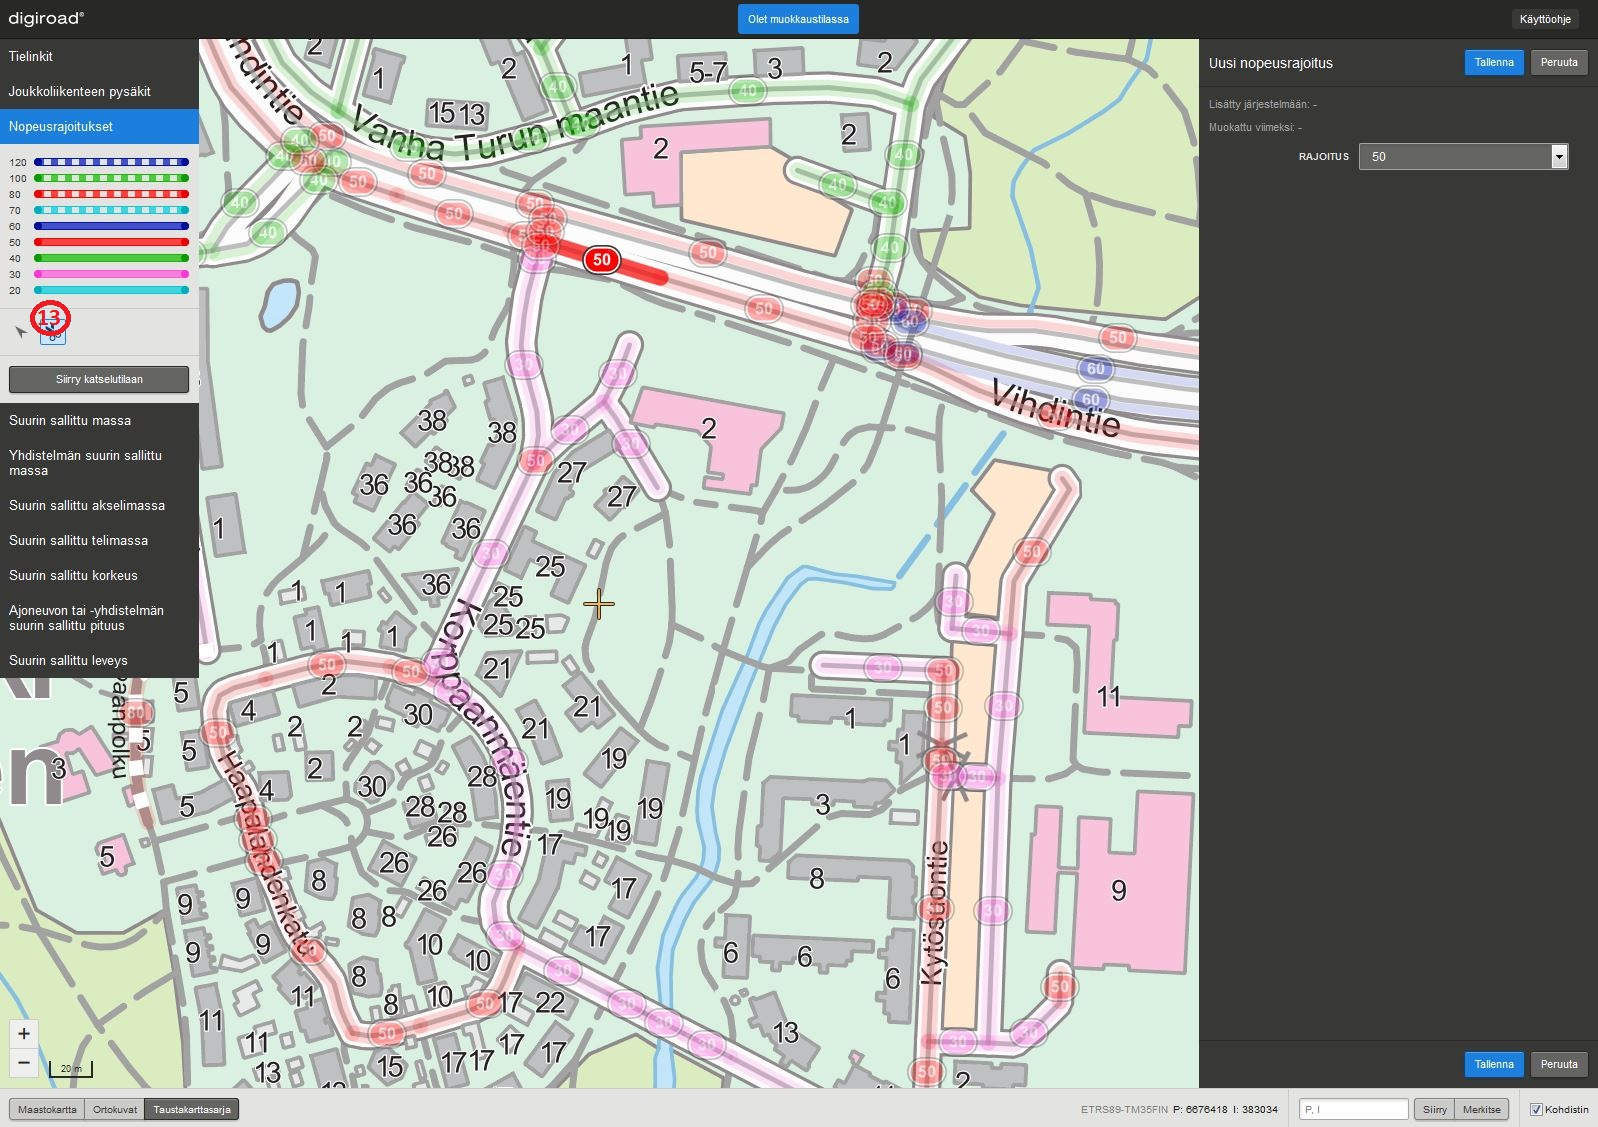
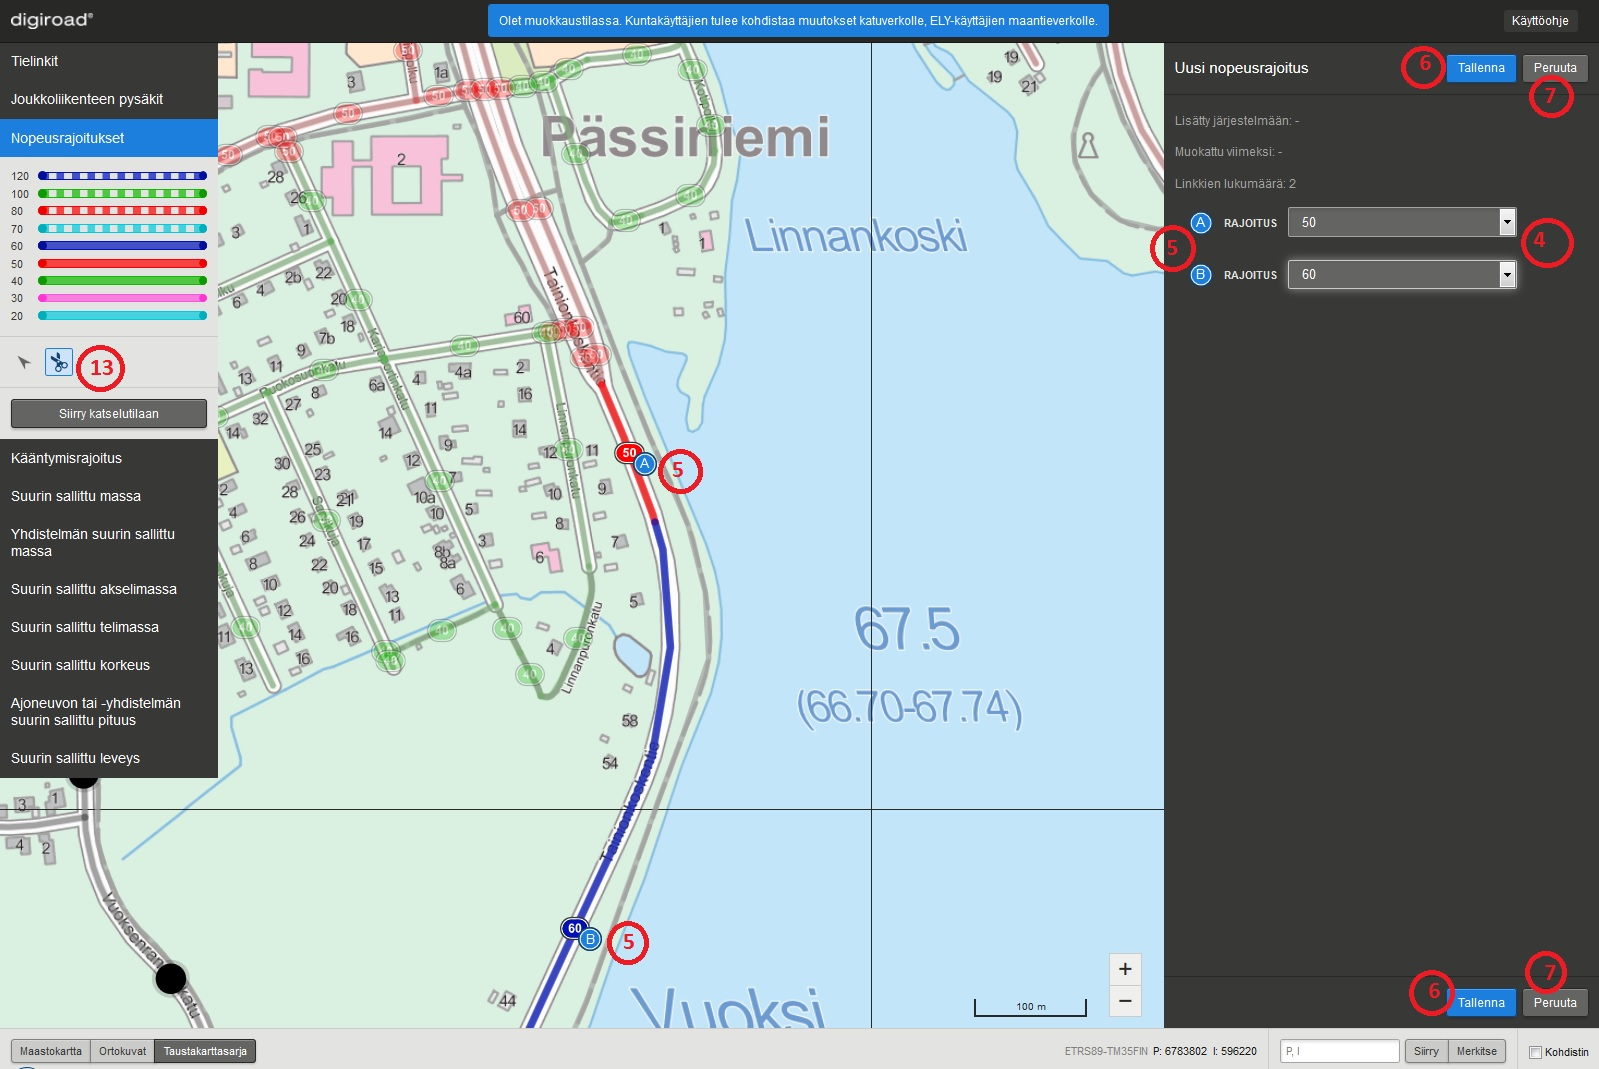
update manual

diff --git a/UI/manual/index.md b/UI/manual/index.md
@@ -399,25 +399,38 @@ _Nopeusrajoituksen tietojen katselu, kun valittuna on nopeusrajoitusketju (klika
 
 _Nopeusrajoituksen tietojen katselu, kun valittuna on yksitt&auml;inen nopeusrajoitus (tuplaklikkaus)._
 
-Nopeusrajoitukset on visualisoitu eri tavoin riippuen vaikutussuunnasta. Nopeusrajoituksen vaikutussuunta voi olla molempiin suuntiin tai vain toiseen suuntaan. Jos vaikutussuunta on molempiin suuntiin, nopeusrajoitus on visualisoitu yhdell&auml; paksulla viivalla (23). Yksisuuntainen vaikutus on visualisoitu ohuemmalla viivalla vaikutussuunnan mukaan tielinjan reunaan (24).
+###Nopeusrajoitusten visualisointi###
+
+Nopeusrajoitukset on visualisoitu eri tavoin riippuen vaikutussuunnasta. Nopeusrajoituksen vaikutussuunta voi olla molempiin suuntiin tai vain toiseen suuntaan. Jos vaikutussuunta on molempiin suuntiin, nopeusrajoitus on visualisoitu yhdell&auml; paksulla viivalla (1). Yksisuuntainen vaikutus on visualisoitu ohuemmalla viivalla vaikutussuunnan mukaan tielinjan reunaan (2).
+
+Digiroad-yll&auml;pitosovellus yhdist&auml;&auml; nopeusrajoitukset molempiin suuntiin voimassa olevaksi, jos tielinkill&auml; on vain yksinopeusrajoitus. K&auml;yt&auml;nn&ouml;ss&auml; siis kaikki tapaukset, joissa nopeusrajoituksen arvo molempiin suuntiin on sama, eik&auml; arvo vaihdu kesken tielinkin, visualisoidaan molempiin suuntiin voimassa olevana. Erityisesti risteysalueella nopeusrajoitukset voivat muuttua kesken tielinkin (2) tai rajoituksen arvo eri suuntiin on eri (2, 3), jolloin ne visualisoituvat yll&auml;pitosovelluksessa ohuemmilla viivoilla tiegeometrian viereen.
+
+Nopeusrajoituksen muokkauksessa on mahdollisuus jakaa molempiin suuntiin voimassa oleva nopeusrajoitus yhteen suuntaan voimassa olevaksi.
 
 ![Nopeusrajoitusten visualisointi](k27.JPG)
 
 _Nopeusrajoitusten visualisointi._
 
-##Nopeusrajoituksen ominaisuustietojen muokkaus##
+##Nopeusrajoituksien muokkaus##
 
-Nopeusrajoituksen tietoja muokataan muokkaustilassa muokkausty&ouml;kalulla (12). Muokattava nopeusrajoitus (4) valitaan klikkaamalla sen geometriaa. Yksitt&auml;isen nopeusrajoituksen voi valita klikkaamalla kartalta sen geometriaa. 
+Muokkaustilassa nopeusrajoituksille voi antaa uusia arvoja, niit&auml; voi katkaista sek&auml; muuttaa yksisuuntaisiksi. Nopeusrajoituksien arvoja voi muokata kolmella tavalla:
+1. Koko nopeusrajoitusketjulle.
+1. Yksitt&auml;isen linkin mittaiselle osuudelle.
+1. Monivalinnan avulla kokonaiselle alueelle.
 
-Kerran klikkaamalla tulee valituksi koko nopeusrajoitusketju, eli kaikki nopeusrajoitukset, joilla on sama nopeusrajoituksen arvo ja tiennumero (maantiell&auml;) tai tien nimi (katuverkko ja yksityistie). Jos k&auml;ytt&auml;j&auml; haluaa valita vain yhden linkin mittaisen p&auml;tk&auml;n tarkasteluun, sen voi tehd&auml; tuplaklikkamalla nopeusrajoitusta. 
+###Nopeusrajoituksen arvon muokkaus###
+
+Muokattava nopeusrajoitus valitaan klikkaamalla sen geometriaa (4). Kerran klikkaamalla tulee valituksi koko nopeusrajoitusketju, eli kaikki nopeusrajoitukset, joilla on sama nopeusrajoituksen arvo ja tiennumero (maantiell&auml;) tai tien nimi (katuverkko ja yksityistie). 
+
+Jos k&auml;ytt&auml;j&auml; haluaa valita vain yhden linkin mittaisen p&auml;tk&auml;n tarkasteluun, sen voi tehd&auml; tuplaklikkamalla nopeusrajoitusta.
 
 Huom! Nopeusrajoituksien ketjuvalinta ei toimi yksisuuntaisille nopeusrajoituksille.
 
-Tietoja muokataan ominaisuustieton&auml;kym&auml;ss&auml; valitsemalla nopeusrajoitukselle uusi arvo alasvetovalikosta (6). Muutokset tallennetaan painamalla Tallenna-painiketta oikeasta alakulmasta (8). Ennen Tallenna-painikkeen painamista muutokset voi perua painamalla Peruuta-painiketta (9). Tallenna- ja peruuta –painikkeet eiv&auml;t ole aktiivisina, jos muutoksia ei ole tehty. Jos muutoksia on tehty eik&auml; niit&auml; ole peruttu tai tallennettu ja siirryt&auml;&auml;n muokkaamaan toista kohdetta tai pois auki olevan tietolajin muokkaustilasta, sovellus antaa muutos-dialogin, joka kertoo, ett&auml; muutoksia on tehty ja ne tulee tallentaa tai peruuttaa ennen kuin voi jatkaa.
+Tietoja muokataan ominaisuustieton&auml;kym&auml;ss&auml; valitsemalla nopeusrajoitukselle uusi arvo alasvetovalikosta (5). Muutokset tallennetaan painamalla Tallenna-painiketta. Ennen Tallenna-painikkeen painamista muutokset voi perua painamalla Peruuta-painiketta. Tallenna- ja peruuta –painikkeet eiv&auml;t ole aktiivisina, jos muutoksia ei ole tehty. Jos muutoksia on tehty eik&auml; niit&auml; ole peruttu tai tallennettu ja siirryt&auml;&auml;n muokkaamaan toista kohdetta tai pois auki olevan tietolajin muokkaustilasta, sovellus antaa muutos-dialogin, joka kertoo, ett&auml; muutoksia on tehty ja ne tulee tallentaa tai peruuttaa ennen kuin voi jatkaa.
 
 ![Nopeusrajoituksen muokkaus.](k26.png)
 
-_Nopeusrajoituksen ominaisuustietojen muokkaus._
+_Nopeusrajoitusketjun arvon muokkaus (klikattu kerran)._
 
 ####Useamman nopeusrajoituksen arvon muokkaus kerralla####
 
@@ -431,15 +444,35 @@ _Useamman nopeusrajoituksen arvon muokkaus kerralla._
 
 Nopeusrajoituksen voi jakaa kahteen osaan leikkausty&ouml;kalulla (13). Leikkausty&ouml;kalulla klikataan nopeusrajoituksen geometriasta kohtaa, josta nopeusrajoitus halutaan katkaista. Nopeusrajoituksen geometrian p&auml;&auml;ll&auml; ty&ouml;kalu n&auml;kyy ristin&auml;, jotta tarkka katkaisukohta on helppo m&auml;&auml;ritt&auml;&auml;.
 
+Nopeusrajoituksen katkaisu valitsee aina vain linkin mittaisen osion nopeusrajoitusta, ei nopeusrajoitusketjua.
+
 ![Nopeusrajoituksen katkaiseminen.](k28.jpg)
 
 _Nopeusrajoituksen katkaiseminen._
 
-Katkaistun nopeusrajoituksen osista pidemm&auml;lle j&auml;&auml; alkuper&auml;isen rajoituksen ID ja arvo. Lyhyempi osa tulee valituksi kartalla ja sen ominaisuustiedot avautuvat ominaisuustieton&auml;kym&auml;&auml;n. Rajoitus-pudotusvalikosta voi valita nopeusrajoitukselle uuden arvon. Oletusarvona on sama nopeusrajoituksen arvo kuin alkuper&auml;isell&auml; rajoituksella. 
+Nopeusrajoituksen katkaisussa uusille rajoituksille valitaan arvot oikean laidan alasvetovalikoista (4). Kartalla ja alasvetovalikkojen vieress&auml; olevat kirjaimet osoittavat, kummasta rajoituksesta on kyse (5). Uudet nopeusrajoitukset tallennetaan tallenna-painikkeesta (6). Katkaisun voi peruuttaa peruuta-painikkeella (7), jolloin alkuper&auml;inen rajoitus j&auml;&auml; voimaan.
 
-Uusi nopeusrajoitus tallennetaan Tallenna-painikkeesta. Tallentamisen j&auml;lkeen nopeusrajoitukselle generoidaan taustaj&auml;rjestelm&auml;ss&auml; ID.
+Huom! Nopeusrajoituksen katkaisussa tulee m&auml;&auml;ritt&auml;&auml; nopeusrajoituksille eri arvot, jotta tallennus on mahdollista.
 
-Nopeusrajoituksen katkaisemisen voi perua Peruuta-Painikkeesta, joka palauttaa alkuper&auml;isen nopeusrajoituksen voimaan.
+###Nopeusrajoituksen muuttaminen yksisuuntaiseksi###
+
+Molempiin suuntiin voimassa olevan nopeusrajoituksen voi muuttaa yksisuuntaiseksi, jos kyseisell&auml; tielinkill&auml; liikennevirran suunta on molempiin suuntiin. Muutos tehd&auml;&auml;n siis tielinkkikohtaisesti.
+
+Muutos tehd&auml;&auml;n tuplaklikkaamalla kyseist&auml; nopeusrajoitusta (1), jolloin oikeaan laitaan tulee painike "Jaa nopeusrajoitus yksisuuntaiseksi" (2).
+
+![Nopeusrajoituksen muuttaminen yksisuuntaiseksi.](k52.jpg)
+
+_Nopeusrajoituksen valinta ja muuttaminen yksisuuntaiseksi._
+
+Painikkeen painamisen j&auml;lkeen voi uusille nopeusrajoituksille antaa arvot alasvetovalikoista (3). Kirjaimet alasvetovalikkojen vieress&auml; vastaavat nopeusrajoituksia kartalla (4). Arvojen pit&auml;&auml; erota toisistaan, jotta tallentaminen on mahdollista.
+
+![Nopeusrajoituksen muuttaminen yksisuuntaiseksi.](k53.jpg)
+
+_Uusien yksisuuntaisten nopeusrajoitusten arvon valinta._
+
+Uudet nopeusrajoitukset tallennetaan tallenna-painikkeesta. Jakamisen voi peruuttaa peruuta-painikkeella, jolloin alkuper&auml;inen rajoitus j&auml;&auml; voimaan.
+
+Jos tallennuksen j&auml;lkeen yhteen suuntaan voimassa oleville nopeusrajoituksille antaa saman arvon, sovellus yhdist&auml;&auml; ne molempiin voimassa oleviksi.
 
 ###Tuntemattomat nopeusrajoitukset###
 
@@ -448,7 +481,7 @@ Jos nopeusrajoitus ko. linkill&auml; ei ole tiedossa, n&auml;kyy se k&auml;ytt&o
 1. Nopeusrajoitustieto on poistunut, kun alla olevan tielinkin geometria on p&auml;ivittynyt.
 1. Nopeusrajoitustietoa ei ole koskaan toimitettu Digiroad-j&auml;rjestelm&auml;&auml;n.
 
-Tuntemattomalle nopeusrajoitukselle voi antaa arvon alasvetovalikosta ja niit&auml; voi muokata my&ouml;s monivalintaty&ouml;kalun avulla. Tuntemattomia nopeusrajoituksia ei kuitenkaan voi katkaista katkaisuty&ouml;kalulla, joten katkaisemista varten tulee tuntematomalle nopeusrajoitukselle ensin antaa joku arvo.
+Tuntemattomalle nopeusrajoitukselle voi antaa arvon alasvetovalikosta ja niit&auml; voi muokata my&ouml;s monivalintaty&ouml;kalun avulla. Tuntemattomia nopeusrajoituksia ei kuitenkaan voi katkaista katkaisuty&ouml;kalulla, eik&auml; niit&auml; voi jakaa yksisuuntaisiksi. Tuntemattomille nopeusrajoituksille tulee antaa ensin arvo, jotta niiden muokkaus t&auml;ydellisesti onnistuu.
 
 ![Tuntematon nopeusrajoitus.](k48.jpg)
 
